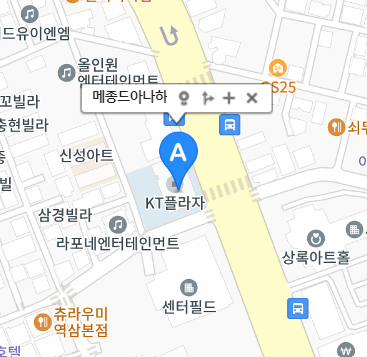
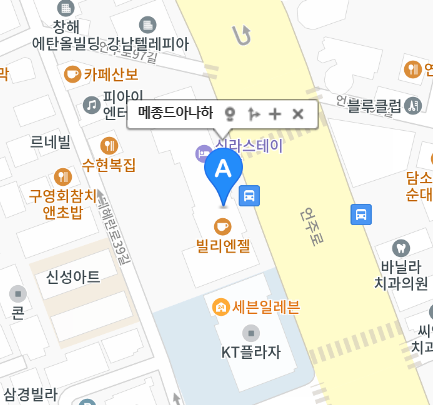
사진, 배너, 맵 등 변경

diff --git a/lib/app/root/ui/widget/location_view.dart b/lib/app/root/ui/widget/location_view.dart
@@ -61,7 +61,7 @@ class LocationView extends StatelessWidget {
                 ),
                 const SizedBox(height: 4),
                 Text(
-                  '서울특별시 강남구 언주로 517 L층\n메종드아나하(웨딩홀 지하주차장 이용시 2시간 무료주차)',
+                  '서울특별시 강남구 언주로 517 신라스테이 B2~B5 (2시간 무료주차)',
                   style: textStyleNormal(R.color.color_594E47, 15),
                 ),
                 const SizedBox(height: 24),
@@ -71,7 +71,7 @@ class LocationView extends StatelessWidget {
                 ),
                 const SizedBox(height: 4),
                 Text(
-                  '선릉역(2호선, 수인분당선) 6번 출구 방향으로 나와\n셔틀 버스를 타고 도착한 건물\n메종드아나하 L층 (지하 1층)',
+                  '선릉역(2호선, 수인분당선) 6번 출구 방향으로 나와\n셔틀 버스를 타고 도착한 건물\n메종드아나하 L층 (지하 1층)\n* 셔틀 버스는 10분 간격 수시운행',
                   style: textStyleNormal(R.color.color_594E47, 15),
                 ),
                 const SizedBox(height: 24),
@@ -81,7 +81,7 @@ class LocationView extends StatelessWidget {
                 ),
                 const SizedBox(height: 4),
                 Text(
-                  '건물 편\n간선 : 141, 242, 361\nKT강남지사 정류소 하차. \n메종드아나하 L층 (지하 1층)\n\n건물 맞은편\n간선 : 141, 242, 361 / 지선 : 6411\nKT강남지사 정류소 하차 후 왼쪽 횡단보도 건너서 도착한 건물\n 메종드아나하 L층 (지하 1층)',
+                  '건물 편\n간선 : 141, 242, 361\nKT강남지사 정류소 하차. \n메종드아나하 L층 (지하 1층)\n\n건물 맞은편\n간선 : 141, 242, 361 / 지선 : 6411\nKT강남지사 정류소 하차 후 왼쪽 횡단보도 건너서 도착한 건물\n메종드아나하 L층 (지하 1층)',
                   style: textStyleNormal(R.color.color_594E47, 15),
                 ),
               ],

diff --git a/lib/app/root/ui/dialog/contact_dialog.dart b/lib/app/root/ui/dialog/contact_dialog.dart
@@ -34,10 +34,10 @@ Future<T> contactDialog<T>() async {
                     style: textStyleBlackBold(24),
                   ),
                   const SizedBox(height: 40),
-                  _buildContactRow('신랑 부', '신종식', '010-5264-6406'),
-                  _buildContactRow('신랑 모', '손희송', '010-9903-6406'),
-                  _buildContactRow('신부 부', '최성식', '010-3644-4126'),
-                  _buildContactRow('신부 모', '허인숙', '010-3190-1416'),
+                  _buildContactRow('신랑 부', '김종희', '010-9450-8632'),
+                  _buildContactRow('신랑 모', '민연심', '010-4200-9845'),
+                  _buildContactRow('신부 부', '차성은', '010-5409-9522'),
+                  _buildContactRow('신부 모', '이 호', '010-9400-5635'),
                 ],
               ),
             ),

diff --git a/lib/app/root/controller/root_page_controller.dart b/lib/app/root/controller/root_page_controller.dart
@@ -25,7 +25,7 @@ class RootPageController extends GetxController {
 
   final daesunTransferData = FamilyTransferInfoData(
       '신랑 측 마음 전하는 곳',
-      TransferInfoData('김대순', '카카오뱅크', '3333-14-3664702'),
+      TransferInfoData('김대순', '국민은행', '758602-00-073684'),
       TransferInfoData('김종희', '신한은행', '100-022-461414'),
       TransferInfoData('민연심', '신한은행', '110-034-183346'),
   );
@@ -34,6 +34,6 @@ class RootPageController extends GetxController {
     '신부 측 마음 전하는 곳',
     TransferInfoData('차민희', '카카오뱅크', '3333-05-1414209'),
     TransferInfoData('차성은', '농협', '665-02-064498'),
-    TransferInfoData('이호', '농협', '631011-52-063537'),
+    TransferInfoData('이 호', '국민은행', '735702-01-001621'),
   );
 }
